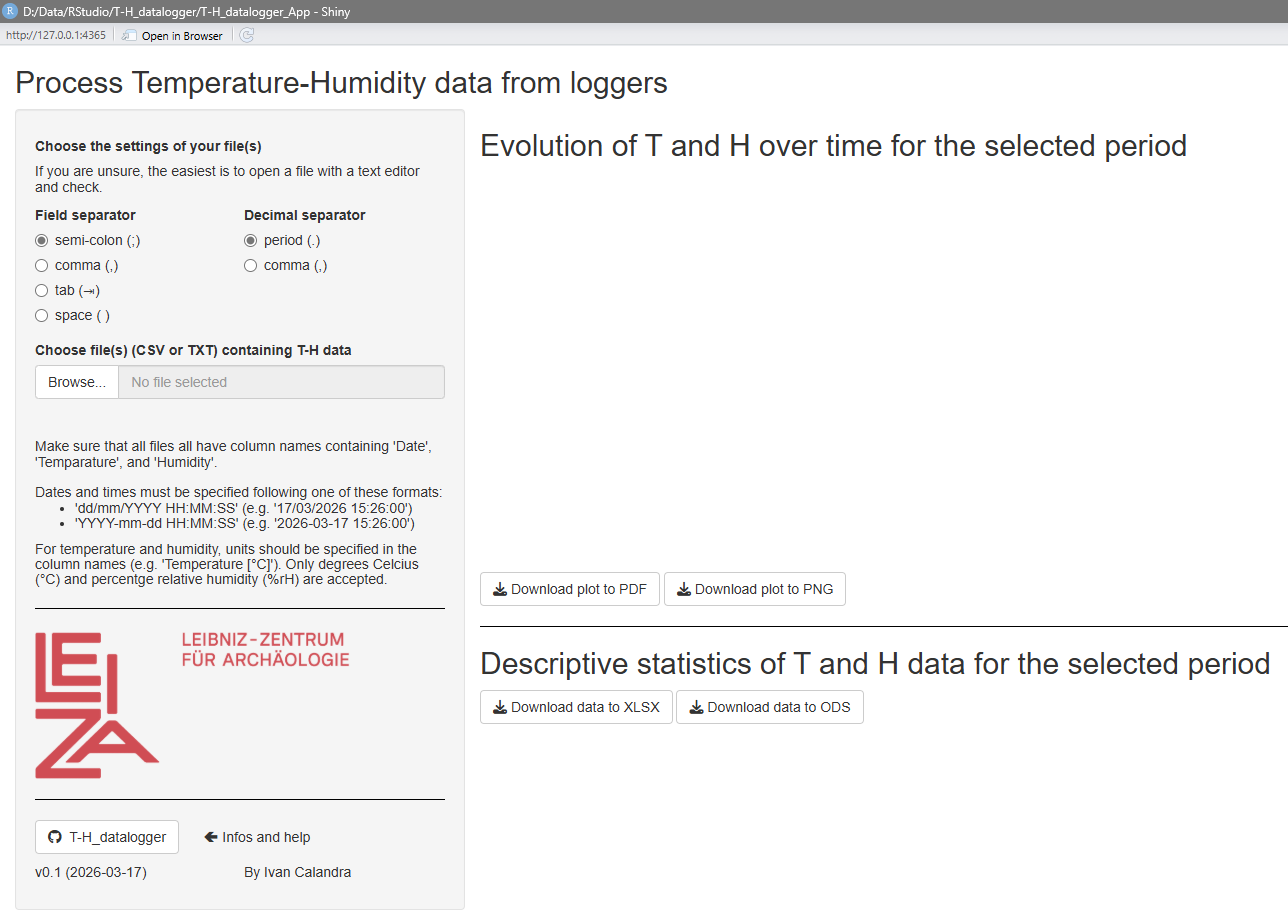
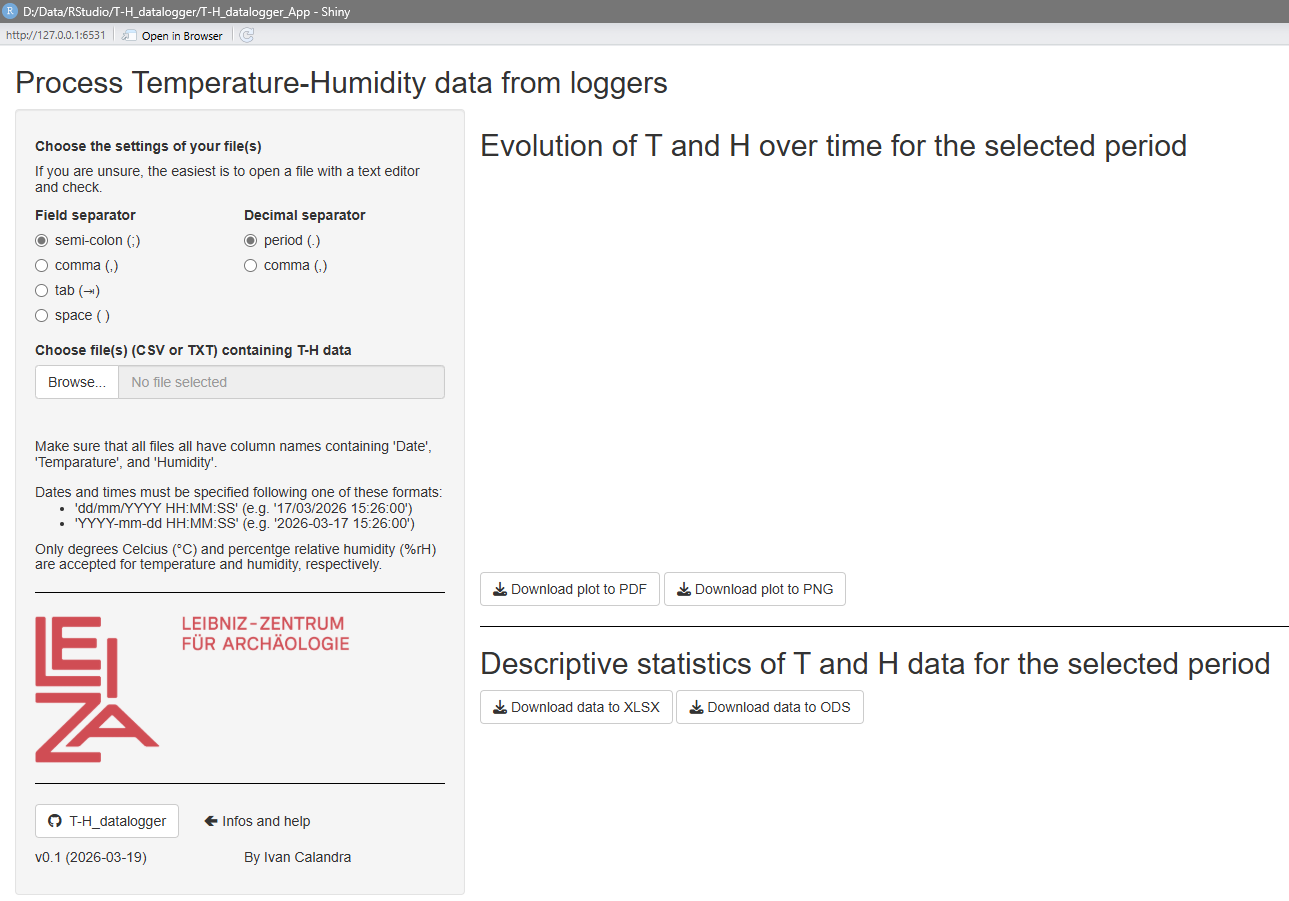
Clarifications in units for T and H, in README, sidebar and screenshots

diff --git a/README.md b/README.md
@@ -138,7 +138,7 @@ Make sure that **all files all have column names containing 'Date', 'Temparature
 - 'dd/mm/YYYY HH:MM:SS', e.g. '17/03/2026 15:26:00'  
 - 'YYYY-mm-dd HH:MM:SS', e.g. '2026-03-17 15:26:00' (= ISO 8601)  
 
-For temperature and humidity, units should be specified in the column names (e.g. 'Temperature [°C]'). **Only degrees Celcius (°C) and percentge relative humidity (%rH) are accepted currently.**  
+**Only degrees Celcius (°C) and percentge relative humidity (%rH) are accepted currently for temperature and humidity, respectively.**  
 After importing the files, output will be displayed automatically in the main panel. Note that it may take a few seconds to load if there is a lot of data to process.
 
 Last, select the period you are interesting in using the calendar widget. The output will be updated automatically.
